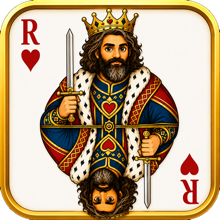
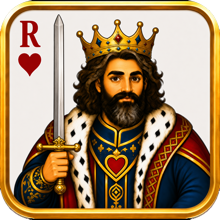
Met a jour l'icone Barbu de la roue

diff --git a/index.html b/index.html
@@ -134,7 +134,7 @@
           <img class="wheel__icon wheel__icon--coeurs" src="./assets/quick-icon-coeurs.png" alt="" />
           <img class="wheel__icon wheel__icon--dames" src="./assets/quick-icon-dames.png" alt="" />
           <img class="wheel__icon wheel__icon--dernier" src="./assets/quick-icon-dernier.png" alt="" />
-          <img class="wheel__icon wheel__icon--barbu" src="./assets/quick-icon-barbu.png" alt="" />
+          <img class="wheel__icon wheel__icon--barbu" src="./assets/quick-icon-barbu.png?v=20260810" alt="" />
           <img class="wheel__icon wheel__icon--salade" src="./assets/quick-icon-salade.png" alt="" />
           <img class="wheel__center" src="./assets/quick-wheel-center.png" alt="" />
         </div>
